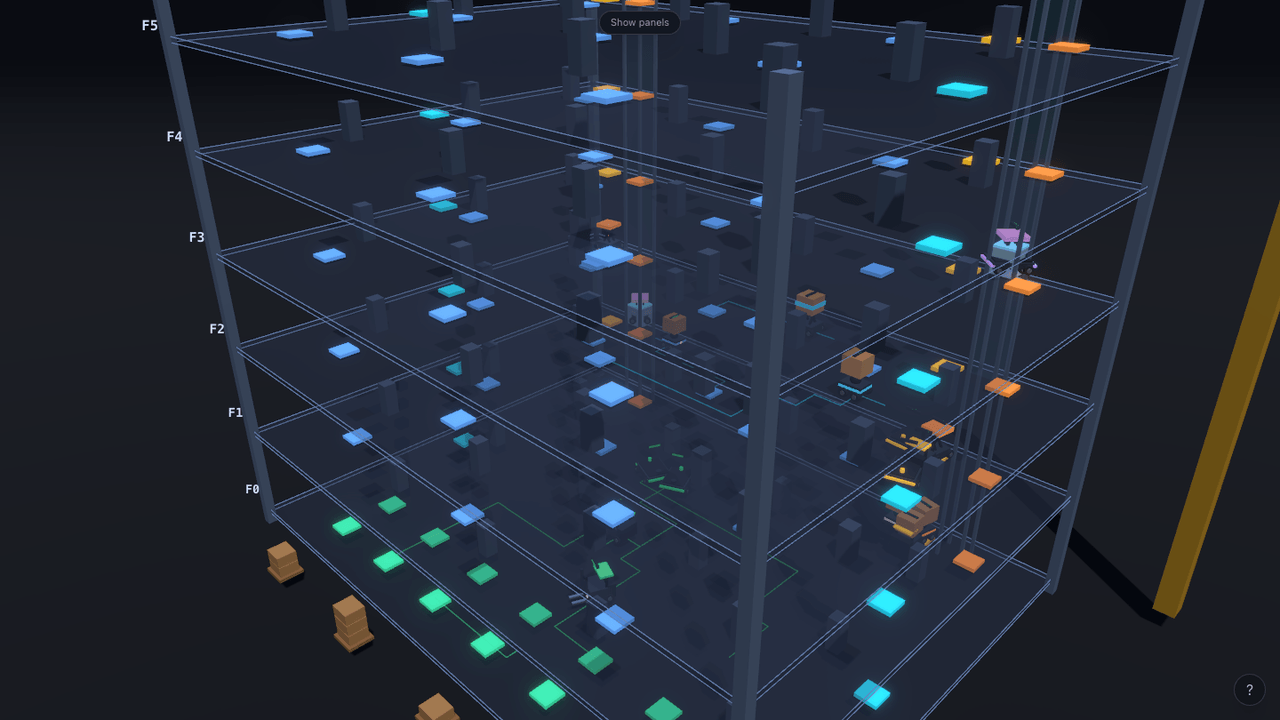
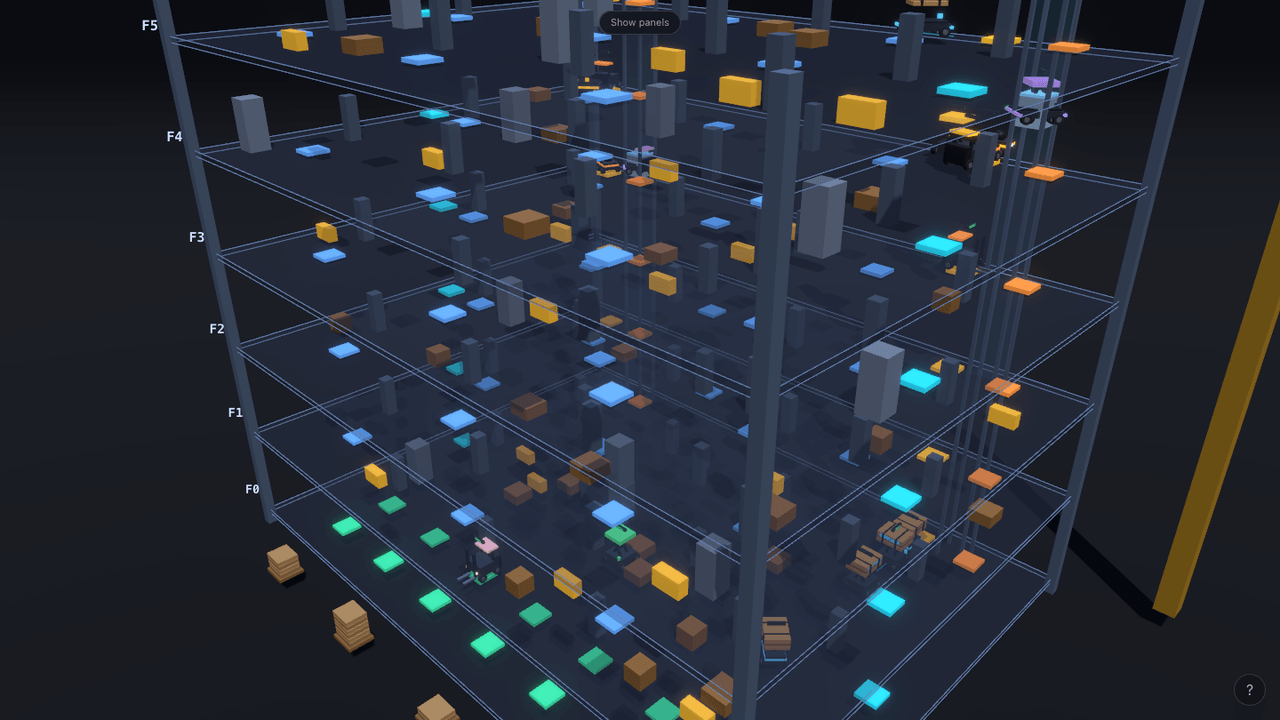
docs: add interface/site screenshots, three-sites section, live Vercel demo
- lead with the full annotated interface shot (docs/interface.png)
- new "Three sites, one engine" section: apartment/factory/warehouse stills
- move the panels-hidden still down into "Exploring the simulation"
- link the live demo at https://mapf-fleet.vercel.app (badge + callout + deploy)
- add scripts/screenshot-sites.mjs to regenerate the site stills
- regenerate docs/demo.png and the site stills to show the new obstacles
- drop the now-superseded docs/preview.png

diff --git a/README.md b/README.md
@@ -1,6 +1,7 @@
 # MAPF Fleet — Multi-Robot Construction-Site Simulator
 
 [![CI](https://github.com/hurjun/mapf-fleet/actions/workflows/ci.yml/badge.svg)](https://github.com/hurjun/mapf-fleet/actions/workflows/ci.yml)
+[![Live demo](https://img.shields.io/badge/Live%20demo-online-2dd4bf?logo=vercel&logoColor=white)](https://mapf-fleet.vercel.app/)
 
 An interactive, real-time **3D simulation of a multi-robot fleet** working a
 multi-floor construction site. Dozens of robots move materials between floors
@@ -20,21 +21,39 @@ multi-agent path-finding (MAPF) engine.
 > path overlaid (<kbd>P</kbd>). Regenerate with
 > [`scripts/record-gif.mjs`](scripts/record-gif.mjs). Static stills below.*
 
-![Preview of the simulator](docs/preview.png)
+![The full MAPF Fleet interface — a controls panel on the left, a clearly-stacked ten-floor apartment tower being orbited in the centre, and live metrics, the fleet-size optimizer, and trend charts on the right](docs/interface.png)
 
-![The fleet at work with UI panels hidden — a six-floor tower of robots, lit elevator shafts, accumulating installs, and every robot's planned path overlaid](docs/demo.png)
+> *Above: the complete interface, captured live from the running app. **Left** —
+> configure the site, fleet, planner, and speed, all adjustable while the
+> simulation runs. **Centre** — a legible, clearly-stacked tower (here a 10-floor
+> apartment) you can orbit, pan, and zoom. **Right** — live metrics, the
+> fleet-size optimizer with its model-vs-measured throughput curve, live trend
+> charts, and a one-click prioritized-vs-CBS benchmark.*
 
-> *Above: the same simulator with the panels hidden (press <kbd>U</kbd>) and every
-> robot's planned path overlaid (press <kbd>P</kbd>) — robots ferry material up a
-> six-floor tower while installed structure accumulates per floor. This is a real
-> frame captured from the running app in headless Chromium; regenerate it with
-> [`scripts/screenshot.mjs`](scripts/screenshot.mjs).*
-
-> **Run it locally in about a minute** — see [Running locally](#running-locally).
-> It is a zero-config Next.js app, so it can also be one-click deployed to Vercel
-> ([Deployment](#deployment-vercel)). ·
+> **▶ Try the live demo: [mapf-fleet.vercel.app](https://mapf-fleet.vercel.app/)** —
+> the real app running in your browser, no install. Prefer local? **Run it in about
+> a minute** — see [Running locally](#running-locally). It is a zero-config Next.js
+> app, so you can also one-click deploy your own ([Deployment](#deployment-vercel)). ·
 > **Tip:** drag to orbit the building, then use the sliders to reshape the site
 > and the fleet in real time.
+
+---
+
+## Three sites, one engine
+
+The same framework-free MAPF engine drives three procedurally-generated site
+types — switch between them live from the **Site** tabs, no restart required.
+
+<table>
+<tr>
+<td width="33%" valign="top"><img src="docs/site-apartment.png" alt="Apartment — a tall multi-floor tower where every job crosses floors"><br><b>Apartment</b><br>A tall high-rise: every job crosses floors, so the capacity-limited elevators become the bottleneck.</td>
+<td width="33%" valign="top"><img src="docs/site-factory.png" alt="Factory — a wide, low multi-floor hall served by a gantry crane"><br><b>Factory</b><br>A wide, low multi-floor hall under a gantry crane — traffic spreads across the floor.</td>
+<td width="33%" valign="top"><img src="docs/site-warehouse.png" alt="Warehouse — wide storage aisles feeding shipping docks on two floors"><br><b>Warehouse</b><br>Dense storage aisles feeding shipping docks on a two-floor footprint.</td>
+</tr>
+</table>
+
+> *Real frames from the running app, UI panels hidden. Regenerate with
+> [`scripts/screenshot-sites.mjs`](scripts/screenshot-sites.mjs).*
 
 ---
 
@@ -59,10 +78,14 @@ multi-agent path-finding (MAPF) engine.
   to a free charger when low, recharge, and resume — a real capacity-limited
   scheduling constraint, shown with per-robot battery bars.
 - **Reads like a construction site.** Floors are clearly stacked, outlined decks
-  tied together by a steel frame with floor labels; a tower crane (apartment) or
-  gantry crane (factory/warehouse) looms over staged material pallets; elevator
-  cars travel lit shafts; and **installed structure visibly accumulates** at each
-  delivery point as the fleet builds the site out.
+  tied together by a steel frame with floor labels; every level is dressed with a
+  **variety of obstacles** — concrete pillars, machinery, racks, scaffolding,
+  hazard barriers, and pallets of staged flooring — that the fleet **carefully
+  weaves around**. Robots ferry **bundles of engineered-wood flooring planks
+  (강마루)**, and the **installed flooring visibly accumulates** tile by tile at
+  each delivery point as the site gets laid out. A tower crane (apartment) or
+  gantry crane (factory/warehouse) looms over the staged material; elevator cars
+  travel lit shafts.
 - **Live fleet-size optimizer with model-vs-reality overlay.** An analytical
   throughput model — derived from the *actual* generated layout — predicts
   deliveries/minute vs. fleet size, recommends a deployment, and names the
@@ -91,8 +114,13 @@ reactive layer on top of it.
 ### World model
 
 The site is a stack of 2D grids — one per floor — connected by elevators. Each
-cell is free space, a wall (structure/machinery/shaft), or an elevator
-boarding/exit pad. Pickup and dropoff stations sit on walkable cells. The two
+cell is free space, a wall, or an elevator boarding/exit pad. Walls cover both
+the permanent structure and a deterministic scatter of **site obstacles**
+(pillars, machinery, racks, scaffolding, barriers, pallets, crates); each carries
+a render-only *kind* tag that drives its 3D prop, but to the planner they are all
+the same impassable cell — which is exactly why robots are seen carefully weaving
+around them. A connectivity guard guarantees the scatter never walls off a
+station or pad. Pickup and dropoff stations sit on walkable cells. The three
 scenarios are produced procedurally by `scenarios.ts`.
 
 ### Path finding (the MAPF core)
@@ -197,7 +225,8 @@ A deliberately honest scope, so the engineering claims are easy to verify.
 - Task assignment is **greedy under uniform demand** — no deadlines or priorities.
 - The optimizer's traffic constants (jam density, min speed) are **hand-tuned,
   not calibrated** from data (auto-calibration is an extension).
-- No **hosted demo** yet; run locally, or one-click deploy to Vercel.
+- A **hosted demo** is live at [mapf-fleet.vercel.app](https://mapf-fleet.vercel.app/);
+  you can also run it locally or one-click deploy your own.
 
 ---
 
@@ -292,6 +321,13 @@ prioritized WHCA\* planner. *Planning* is the mean wall-clock time per tick;
 
 ## Exploring the simulation
 
+![Panels hidden and every robot's planned path overlaid — the prioritized planner coordinating a six-floor tower of robots at once](docs/demo.png)
+
+> *Panels hidden (<kbd>U</kbd>) with every robot's planned path overlaid
+> (<kbd>P</kbd>) — the planner coordinating the whole fleet at once. A real frame
+> from the running app; regenerate with
+> [`scripts/screenshot.mjs`](scripts/screenshot.mjs).*
+
 - **Click a robot** to select it: a halo marks it, its planned path is drawn, and
   an inspector shows its live status, battery, task, and plan.
 - **Show all planned paths** to see the whole fleet's coordinated plans at once.
@@ -369,8 +405,10 @@ npm run test:run
 
 ## Deployment (Vercel)
 
+A live instance is deployed at **[mapf-fleet.vercel.app](https://mapf-fleet.vercel.app/)**.
+
 The project is a standard Next.js app and deploys to Vercel with zero
-configuration:
+configuration, so you can spin up your own in a minute:
 
 1. Push this repository to GitHub.
 2. Import it at [vercel.com/new](https://vercel.com/new) — Vercel auto-detects